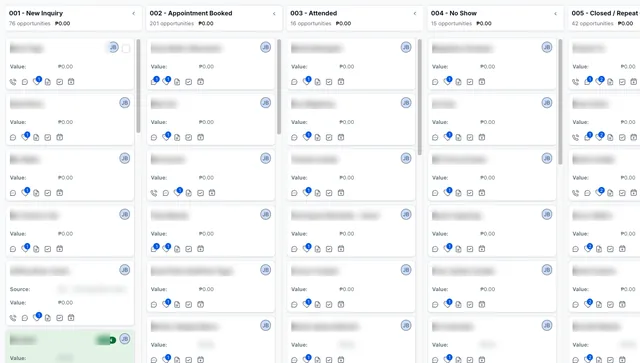
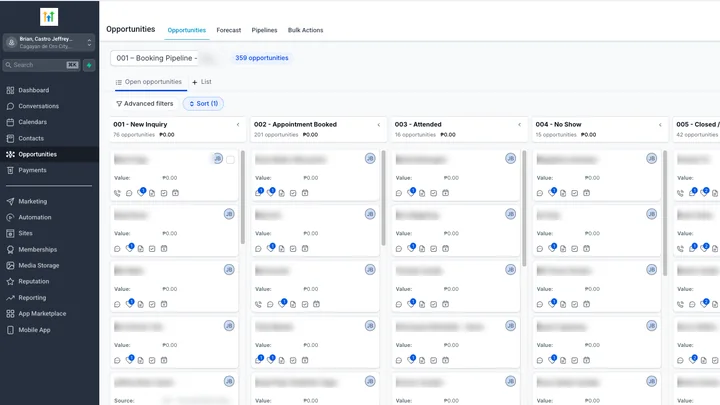
Show the GHL rail on the board, and add zoom and drag to the viewer
The board shot now starts at the top of the GoHighLevel app rather than at
the content area: the rail, the logo, the full nav and Jeffrey's own account
are all in. The crop still begins below the browser toolbar, whose URL
carries the sub-account id. Names and Source rows are blurred as before —
36 and 8 of them, found the same way.

Zoom is the image's own width (--zoom on .lb-img) rather than a transform,
so panning is the frame's native scroll: no clamping maths, and scrollbars
for free. 40% to 400%, centred on the frame rather than its top-left so the
thing being looked at stays put. Buttons in the bar, + - and 0 on the
keyboard, ctrl or pinch on the wheel — plain wheel still scrolls, which is
what a two-thousand-pixel screenshot wants.

Drag to pan moves the scroll opposite the pointer so the image follows the
hand, with pointer capture so a drag that leaves the frame keeps working.
Zoom resets to 100% on every navigation.

Verified through the real pointer path: opens at 100% with a 900px image in
a 938px frame; two zoom-ins give 156% and 1463px, which makes it pannable;
a 150px drag moves scrollLeft by exactly 150; pointerup clears the drag
state; 0 resets; navigating resets.

diff --git a/js/gallery.js b/js/gallery.js
@@ -31,6 +31,27 @@
   const dialog = lb.querySelector(".lb-dialog");
   const prevBtn = lb.querySelector(".lb-prev");
   const nextBtn = lb.querySelector(".lb-next");
+  const zoomLevel = document.getElementById("lb-zoom-level");
+
+  const MIN_ZOOM = 0.4;
+  const MAX_ZOOM = 4;
+  let zoom = 1;
+
+  /* Zooming around the frame's centre rather than its top-left, so the thing
+     being looked at stays where it was. */
+  function setZoom(next) {
+    const z = Math.min(MAX_ZOOM, Math.max(MIN_ZOOM, Math.round(next * 100) / 100));
+    if (z === zoom) return;
+    const cx = (frame.scrollLeft + frame.clientWidth / 2) / Math.max(frame.scrollWidth, 1);
+    const cy = (frame.scrollTop + frame.clientHeight / 2) / Math.max(frame.scrollHeight, 1);
+    zoom = z;
+    img.style.setProperty("--zoom", z);
+    zoomLevel.textContent = Math.round(z * 100) + "%";
+    requestAnimationFrame(() => {
+      frame.scrollLeft = cx * frame.scrollWidth - frame.clientWidth / 2;
+      frame.scrollTop = cy * frame.scrollHeight - frame.clientHeight / 2;
+    });
+  }
 
   let index = 0;
   let opener = null;
@@ -44,7 +65,11 @@
     img.height = Number(t.dataset.h) || 0;
     caption.textContent = t.dataset.caption || "";
     count.textContent = index + 1 + " / " + triggers.length;
+    zoom = 1;
+    img.style.setProperty("--zoom", 1);
+    zoomLevel.textContent = "100%";
     frame.scrollTop = 0;
+    frame.scrollLeft = 0;
   }
 
   /* `hidden` stays on for semantics; `data-open` drives the transition, set a
@@ -85,6 +110,45 @@
   );
   prevBtn.addEventListener("click", () => show(index - 1));
   nextBtn.addEventListener("click", () => show(index + 1));
+  lb.querySelector(".lb-zoom-in").addEventListener("click", () => setZoom(zoom * 1.25));
+  lb.querySelector(".lb-zoom-out").addEventListener("click", () => setZoom(zoom / 1.25));
+
+  /* Plain wheel scrolls, which is what a tall screenshot wants; ctrl or the
+     trackpad pinch zooms, which is what the browser already means by it. */
+  frame.addEventListener("wheel", (event) => {
+    if (!event.ctrlKey && !event.metaKey) return;
+    event.preventDefault();
+    setZoom(zoom * (event.deltaY < 0 ? 1.12 : 1 / 1.12));
+  }, { passive: false });
+
+  /* Drag to pan. Scroll position moves opposite the pointer, so the image
+     follows the hand. */
+  let dragging = null;
+  frame.addEventListener("pointerdown", (event) => {
+    if (event.button !== 0) return;
+    dragging = {
+      x: event.clientX,
+      y: event.clientY,
+      left: frame.scrollLeft,
+      top: frame.scrollTop,
+    };
+    frame.setPointerCapture(event.pointerId);
+    frame.dataset.dragging = "true";
+  });
+  frame.addEventListener("pointermove", (event) => {
+    if (!dragging) return;
+    event.preventDefault();
+    frame.scrollLeft = dragging.left - (event.clientX - dragging.x);
+    frame.scrollTop = dragging.top - (event.clientY - dragging.y);
+  });
+  function endDrag(event) {
+    if (!dragging) return;
+    dragging = null;
+    delete frame.dataset.dragging;
+    if (frame.hasPointerCapture(event.pointerId)) frame.releasePointerCapture(event.pointerId);
+  }
+  frame.addEventListener("pointerup", endDrag);
+  frame.addEventListener("pointercancel", endDrag);
   lb.querySelectorAll("[data-lb-close]").forEach((el) =>
     el.addEventListener("click", close)
   );
@@ -94,6 +158,9 @@
     if (event.key === "Escape") { close(); return; }
     if (event.key === "ArrowLeft") { show(index - 1); return; }
     if (event.key === "ArrowRight") { show(index + 1); return; }
+    if (event.key === "+" || event.key === "=") { setZoom(zoom * 1.25); return; }
+    if (event.key === "-") { setZoom(zoom / 1.25); return; }
+    if (event.key === "0") { setZoom(1); return; }
 
     /* Focus stays inside the dialog while it is modal. */
     if (event.key !== "Tab") return;

diff --git a/index.html b/index.html
@@ -61,6 +61,8 @@
   <symbol id="i-calendar" viewBox="0 0 24 24" fill="none" stroke="currentColor" stroke-width="1.8" stroke-linecap="round" stroke-linejoin="round"><rect x="3" y="5" width="18" height="16" rx="2"/><path d="M3 10h18M8 3v4M16 3v4"/></symbol>
   <symbol id="i-bell" viewBox="0 0 24 24" fill="none" stroke="currentColor" stroke-width="1.8" stroke-linecap="round" stroke-linejoin="round"><path d="M18 9a6 6 0 0 0-12 0c0 6-2.5 7-2.5 7h17S18 15 18 9"/><path d="M13.7 20a2 2 0 0 1-3.4 0"/></symbol>
   <symbol id="i-loop" viewBox="0 0 24 24" fill="none" stroke="currentColor" stroke-width="1.8" stroke-linecap="round" stroke-linejoin="round"><path d="M4 12a8 8 0 0 1 14-5.3M20 5v4h-4"/><path d="M20 12a8 8 0 0 1-14 5.3M4 19v-4h4"/></symbol>
+  <symbol id="i-plus" viewBox="0 0 24 24" fill="none" stroke="currentColor" stroke-width="1.9" stroke-linecap="round"><path d="M12 5v14M5 12h14"/></symbol>
+  <symbol id="i-minus" viewBox="0 0 24 24" fill="none" stroke="currentColor" stroke-width="1.9" stroke-linecap="round"><path d="M5 12h14"/></symbol>
   <symbol id="i-flow" viewBox="0 0 24 24" fill="none" stroke="currentColor" stroke-width="1.8" stroke-linecap="round" stroke-linejoin="round"><circle cx="4.5" cy="17.5" r="2"/><circle cx="12" cy="6.5" r="2"/><circle cx="19.5" cy="17.5" r="2"/><path d="M6 16.2 10.5 8.3M13.5 8.3 18 16.2"/></symbol>
   <symbol id="i-user" viewBox="0 0 24 24" fill="none" stroke="currentColor" stroke-width="1.8" stroke-linecap="round" stroke-linejoin="round"><circle cx="12" cy="8" r="3.6"/><path d="M4.5 20c0-3.7 3.4-6.2 7.5-6.2s7.5 2.5 7.5 6.2"/></symbol>
   <symbol id="i-layers" viewBox="0 0 24 24" fill="none" stroke="currentColor" stroke-width="1.8" stroke-linecap="round" stroke-linejoin="round"><path d="m12 3 8.5 4.6L12 12.2 3.5 7.6 12 3z"/><path d="m3.5 12 8.5 4.6 8.5-4.6"/><path d="m3.5 16.4 8.5 4.6 8.5-4.6"/></symbol>
@@ -434,10 +436,10 @@
           <ul class="wf-gallery wf-gallery-single" data-gallery aria-label="The booking pipeline in GoHighLevel">
             <li class="wf-item">
               <button class="wf-open" type="button"
-                      data-full="img/crm-pipeline.webp" data-w="1000" data-h="538"
+                      data-full="img/crm-pipeline.webp" data-w="1928" data-h="968"
                       data-caption="The booking pipeline &mdash; contact names blurred"
                       data-alt="The GoHighLevel opportunities board for the booking pipeline: six stages from 001 New Inquiry to 006 Closed Lost, 359 opportunities in total, every card showing a real record with the contact name blurred.">
-                <span class="wf-frame"><img src="img/crm-pipeline-thumb.webp" width="640" height="363" alt="" loading="lazy" decoding="async" /></span>
+                <span class="wf-frame"><img src="img/crm-pipeline-thumb.webp" width="720" height="405" alt="" loading="lazy" decoding="async" /></span>
                 <span class="wf-label">The live board, names blurred</span>
               </button>
             </li>
@@ -855,6 +857,15 @@
     <div class="lb-bar">
       <p class="lb-caption" id="lb-caption"></p>
       <p class="lb-count" id="lb-count"></p>
+      <div class="lb-zoom">
+        <button class="lb-btn lb-zoom-out" type="button" aria-label="Zoom out">
+          <svg class="icon" aria-hidden="true"><use href="#i-minus"/></svg>
+        </button>
+        <p class="lb-zoom-level" id="lb-zoom-level" aria-live="polite">100%</p>
+        <button class="lb-btn lb-zoom-in" type="button" aria-label="Zoom in">
+          <svg class="icon" aria-hidden="true"><use href="#i-plus"/></svg>
+        </button>
+      </div>
       <button class="lb-btn lb-close" type="button" aria-label="Close viewer" data-lb-close>
         <svg class="icon" aria-hidden="true"><use href="#i-close"/></svg>
       </button>

diff --git a/css/styles.css b/css/styles.css
@@ -1530,6 +1530,7 @@ img.icon { object-fit: contain; }
 .lb-caption { font-size: 0.92rem; font-weight: 600; min-width: 0; }
 .lb-count {
   margin-left: auto;
+  flex: none;
   font-family: var(--font-mono);
   font-size: 0.75rem;
   color: var(--ink-faint);
@@ -1553,8 +1554,29 @@ img.icon { object-fit: contain; }
   min-height: 0;
   overflow: auto;
   background: var(--surface-alt);
+  cursor: grab;
+  overscroll-behavior: contain;
 }
-.lb-img { width: 100%; height: auto; display: block; }
+.lb-frame[data-dragging="true"] { cursor: grabbing; user-select: none; }
+/* Zoom is the image's own width, so panning is the frame's native scroll —
+   no transform maths, no clamping, and scrollbars for free. */
+.lb-img {
+  width: calc(100% * var(--zoom, 1));
+  max-width: none;
+  height: auto;
+  display: block;
+}
+
+.lb-zoom { display: flex; align-items: center; gap: 4px; flex: none; }
+.lb-zoom-level {
+  min-width: 4ch;
+  text-align: center;
+  font-family: var(--font-mono);
+  font-size: 0.72rem;
+  color: var(--ink-faint);
+}
+.lb-zoom .lb-btn { width: 32px; height: 32px; }
+.lb-zoom .lb-btn .icon { width: 15px; height: 15px; }
 
 .lb-nav {
   position: absolute;
